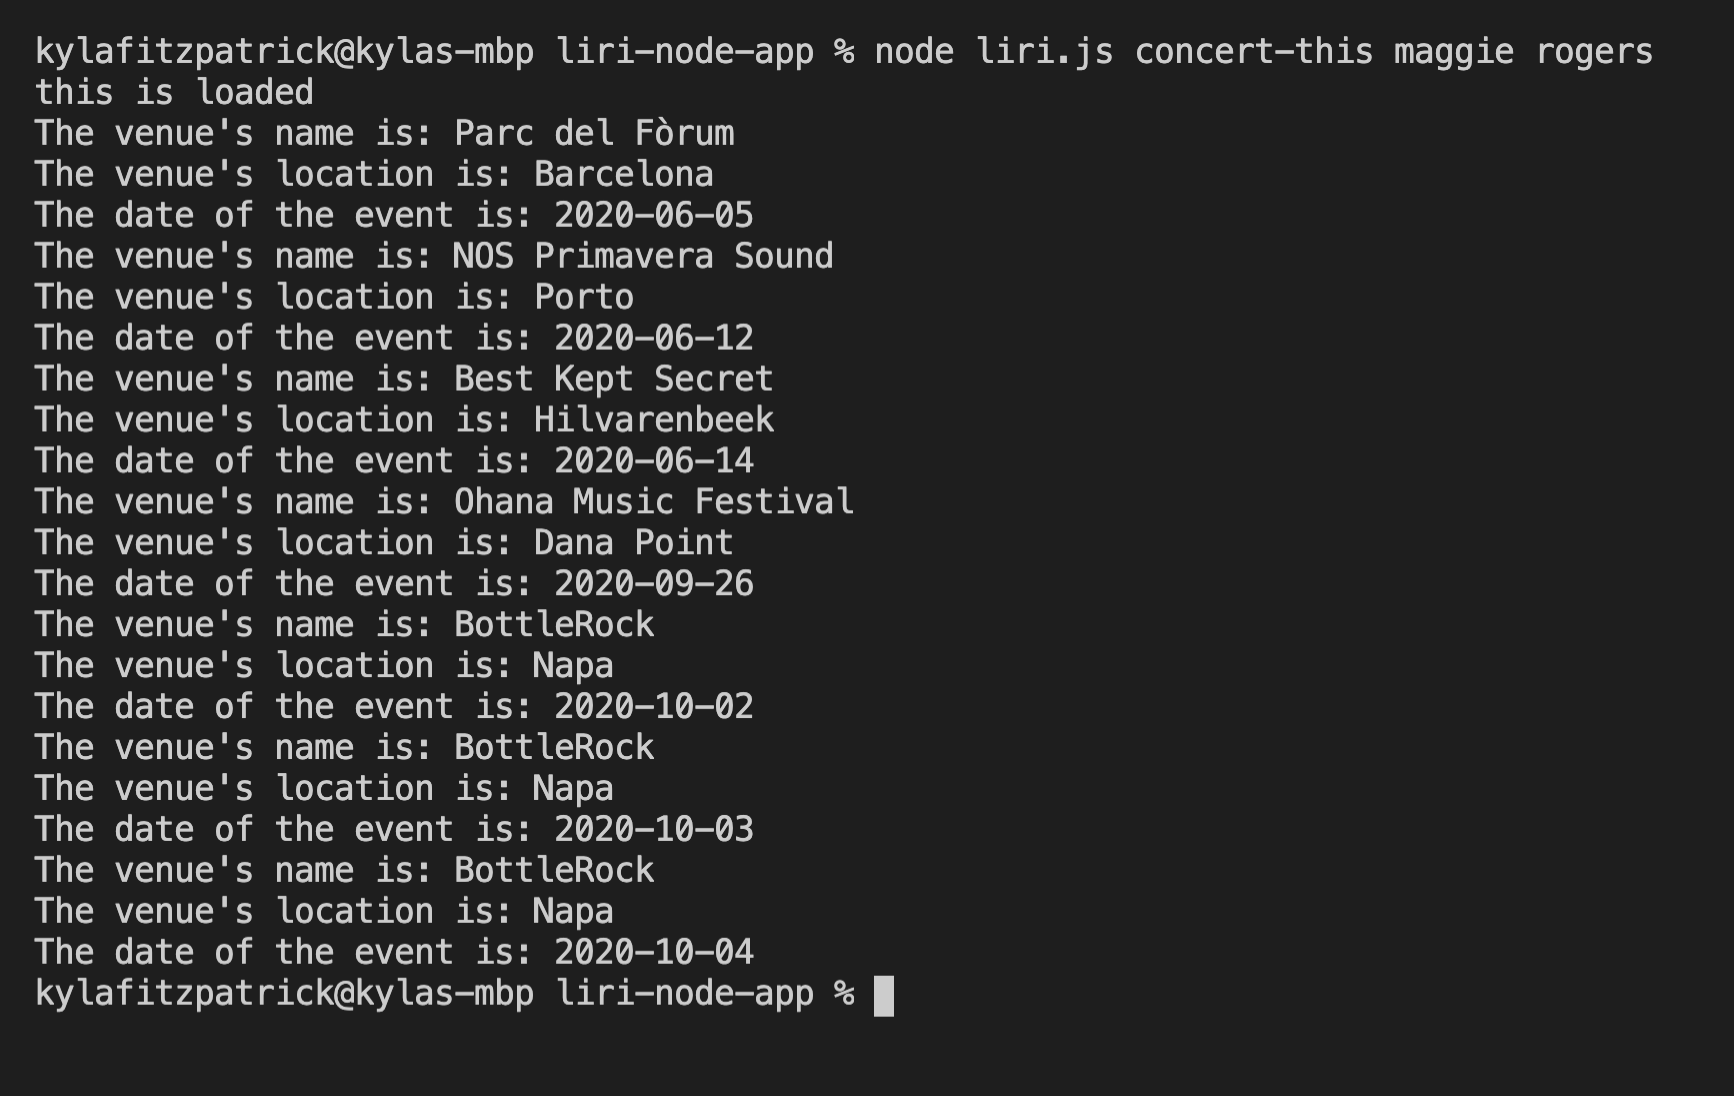
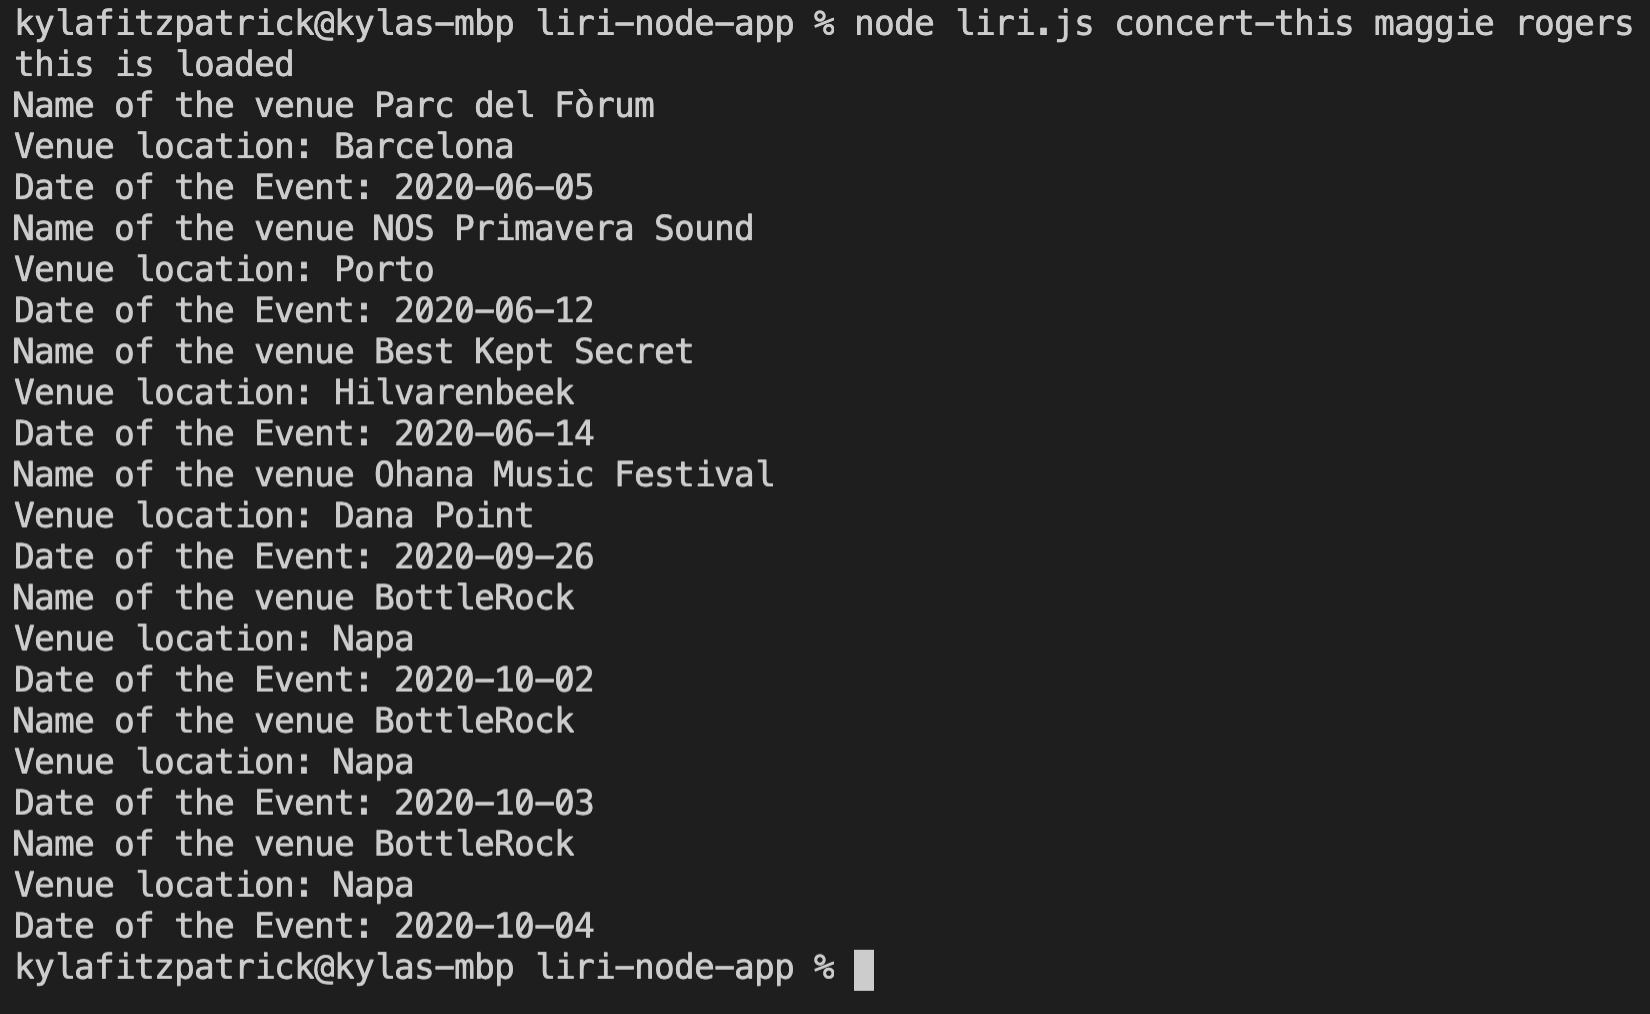
adding documentation for readme

Changed region(s): [[0.0, 0.0, 0.9891, 0.9783]]

diff --git a/liri.js b/liri.js
@@ -53,9 +53,9 @@ axios.get("https://rest.bandsintown.com/artists/" + input + "/events?app_id=codi
     for( var i = 0; i < response.data.length; i++){
         var datetime = response.data[i].datetime;
         var dateArr = datetime.split("T");
-    console.log("The venue's name is: " + response.data[i].venue.name);
-    console.log("The venue's location is: " + response.data[i].venue.city);
-    console.log("The date of the event is: " + moment().format(dateArr[0], "MM-DD-YYYY"));
+    console.log("Name of the venue " + response.data[i].venue.name);
+    console.log("Venue location: " + response.data[i].venue.city);
+    console.log("Date of the Event: " + moment().format(dateArr[0], "MM-DD-YYYY"));
     }
   })
   .catch(function(error) {

diff --git a/README.md b/README.md
@@ -1,7 +1,7 @@
 # liri-node-app
 
 ### Clearly state the problem the app is trying to solve (i.e. what is it doing and why)
-In this assignment, you will make LIRI. LIRI is like iPhone's SIRI. However, while SIRI is a Speech Interpretation and Recognition Interface, LIRI is a Language Interpretation and Recognition Interface. LIRI will be a command line node app that takes in parameters and gives you back data.
+LIRI is like iPhone's SIRI. However, while SIRI is a Speech Interpretation and Recognition Interface, LIRI is a Language Interpretation and Recognition Interface. LIRI will be a command line node app that takes in parameters and gives you back data.
 
 ### Give a high-level overview of how the app is organized
 
@@ -55,8 +55,9 @@ It should run spotify-this-song for "I Want it That Way," as follows the text in
 
 Edit the text in random.txt to test out the feature for movie-this and concert-this.
 For example: 
-movie-this,"throw momma from the bridge"
+movie-this,"forrest gump"
 concert-this,"chvrches"
+
 ### Include screenshots, gifs or videos of the app functioning
 1. node liri.js concert-this <artist/band name here>
 
@@ -64,20 +65,29 @@ concert-this,"chvrches"
 
 2. node liri.js spotify-this-song '<song name here>'
 
-
+![Alt text](/images/spotify-this-song.png)
 
 3. node liri.js movie-this '<movie name here>'
 
-
+![Alt text](/images/movie-this.png)
 
 4. node liri.js do-what-it-says
 
+![Alt text](/images/do-what-it-says.png)
 
+![Alt text](/images/do-what-it-says-concert.png)
+
+![Alt text](/images/do-what-it-says-movie.png)
 
 
 ### Contain a link to a deployed version of the app
+
 Repository: https://github.com/KylaFitzpatrick/liri-node-app
+
 ### Clearly list the technologies used in the app
+
 I used the following apis: spotfiy, omdb, axios and bandsintown.  I also used moment.js to display the date format. 
+
 ### State your role in the app development
+
 My role in development was logging responses from the various apis. 
